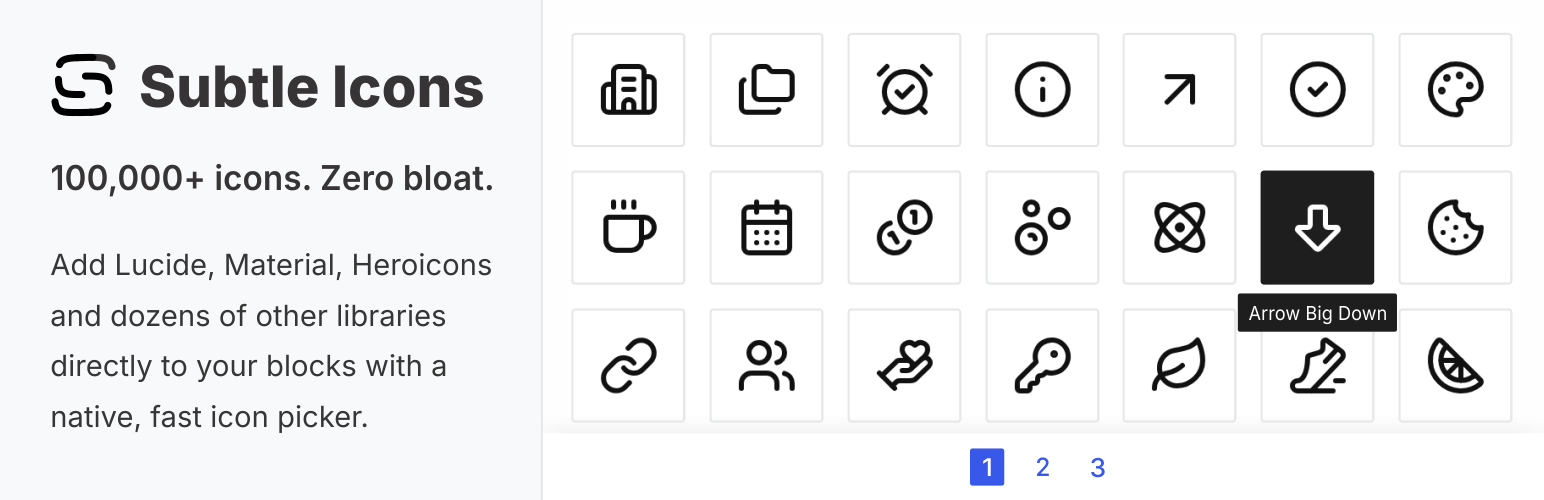
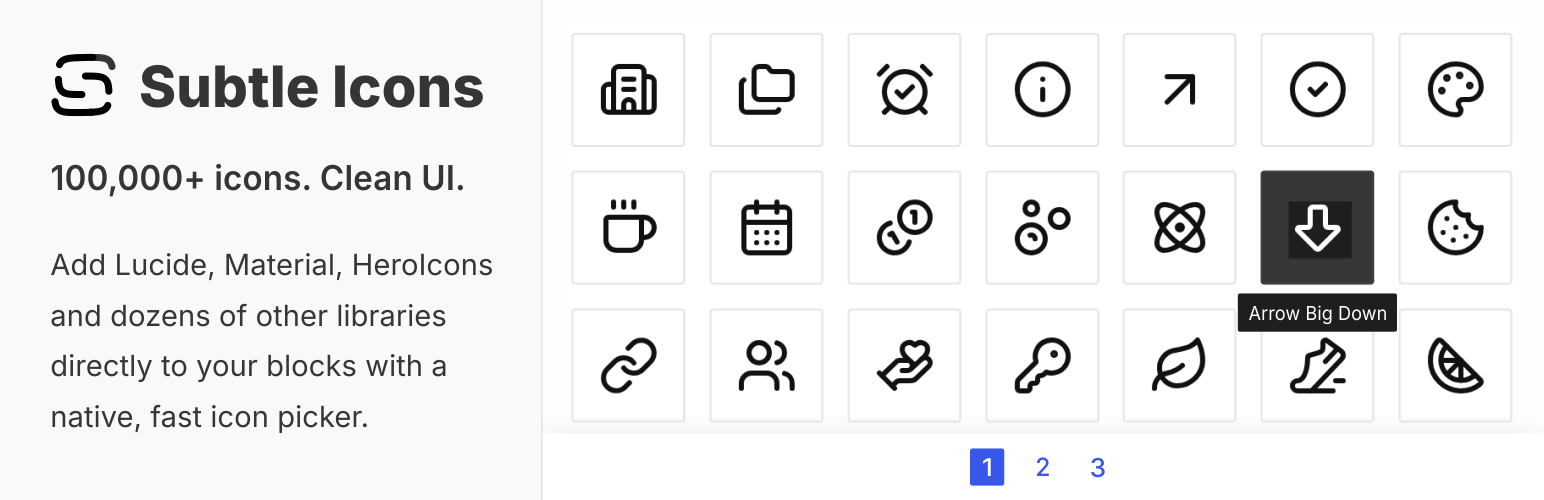
Version 1.2.1 Patch - Format readme

diff --git a/subtle-icons.php b/subtle-icons.php
@@ -4,7 +4,7 @@
  * Plugin URI:        https://subtleblocks.com/icons
  * Description:       Add 100k+ SVG icons (Lucide, Material, FontAwesome) directly to Gutenberg blocks and Advanced Custom Fields. A native, zero-bloat icon picker.
  * Requires PHP:      7.4
- * Version:           1.2.0
+ * Version:           1.2.1
  * Author:            Subtle Blocks
  * Author URI:        https://subtleblocks.com
  * License:           GPL-2.0-or-later
@@ -23,7 +23,7 @@ if ( defined( 'SBTL_BLOCKS_PLUGIN_FILE' ) ) {
 }
 
 define( 'SBTL_BLOCKS_PLUGIN_FILE', __FILE__ );
-define( 'SBTL_BLOCKS_VERSION', '1.2.0' );
+define( 'SBTL_BLOCKS_VERSION', '1.2.1' );
 
 /**
  * Registers the block using the metadata loaded from the `block.json` file.